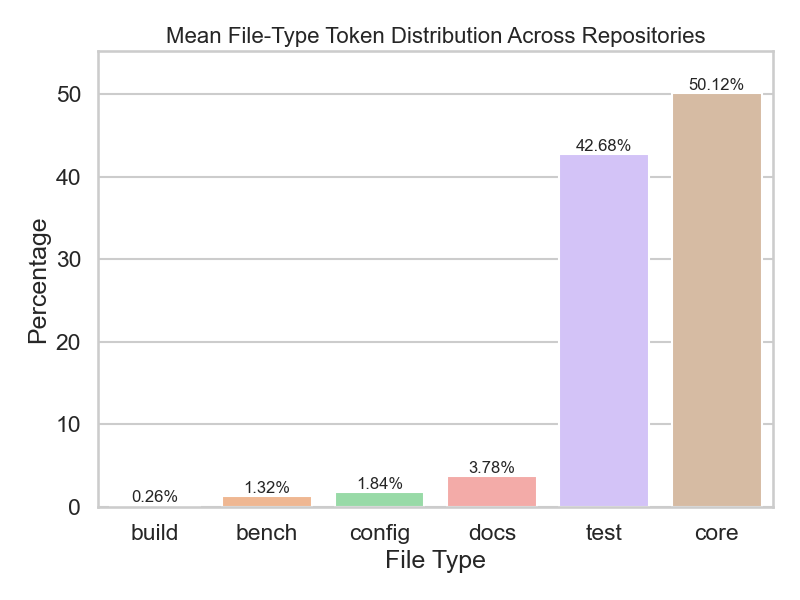
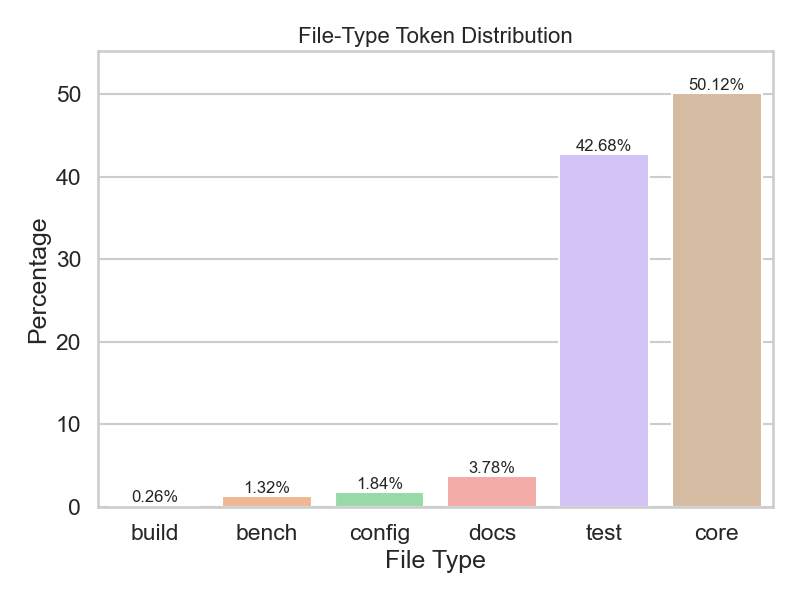
Update plot titles for token analysis + upload new plots

Changed region(s): [[0.1875, 0.03, 0.875, 0.09]]

diff --git a/repository_analysis/plot_file_structure_analysis.py b/repository_analysis/plot_file_structure_analysis.py
@@ -67,15 +67,15 @@ def main(lexical_path, structural_path):
     plot_distribution(
         df_lex,
         lex_cols,
-        "Mean Lexical Token Distribution Across All Instances",
+        "Lexical Token Distribution",
         "Character Count",
     )
     plot_top5_mean_distribution(
         df_lex,
         lex_cols,
         total_col="total_chars",
-        title="Mean Lexical Token Distribution (Top 5 Instances)",
-        ylabel="Mean Character Count",
+        title="Lexical Token Distribution (Large Instances)",
+        ylabel="Character Count",
     )
 
     # Structural
@@ -84,15 +84,15 @@ def main(lexical_path, structural_path):
     plot_distribution(
         df_struct,
         struct_cols,
-        "Mean Structural Token Distribution Across All Instances",
+        "Structural Token Distribution",
         "Character Count",
     )
     plot_top5_mean_distribution(
         df_struct,
         struct_cols,
         total_col="total_chars",
-        title="Mean Structural Token Distribution (Top 5 Instances)",
-        ylabel="Mean Character Count",
+        title="Structural Token Distribution (Large Instances)",
+        ylabel="Character Count",
     )
 
 

diff --git a/repository_analysis/plot_file_type_analysis.py b/repository_analysis/plot_file_type_analysis.py
@@ -40,7 +40,7 @@ def plot_token_type_percentages(df):
     ax.set_ylim(0, max_pct * 1.1)
 
     ax.set_title(
-        "Percentage of Natural Language Instructions vs Code Tokens", fontsize=16
+        "Natural Language Instructions vs Code Tokens", fontsize=16
     )
 
     # Show 3 decimal places
@@ -95,7 +95,7 @@ def plot_mean_file_type_distribution(df):
         )
 
     ax.set_ylim(0, max(data["Percentage"]) * 1.1)
-    ax.set_title("Mean File-Type Token Distribution Across Repositories", fontsize=16)
+    ax.set_title("File-Type Token Distribution", fontsize=16)
 
     plt.tight_layout()
     plt.show()
@@ -128,7 +128,7 @@ def plot_stacked_token_counts_by_repo(df):
     ax = df_stacked.plot(kind="bar", stacked=True, figsize=(10, 6), colormap="tab20c")
 
     ax.set_ylabel("Token Count")
-    ax.set_title("Code Token Count per Repository by File Type", fontsize=16)
+    ax.set_title("Token Count per Repository by File Type", fontsize=16)
     ax.legend(title="File Type", bbox_to_anchor=(1.05, 1), loc="upper left")
 
     plt.tight_layout()
